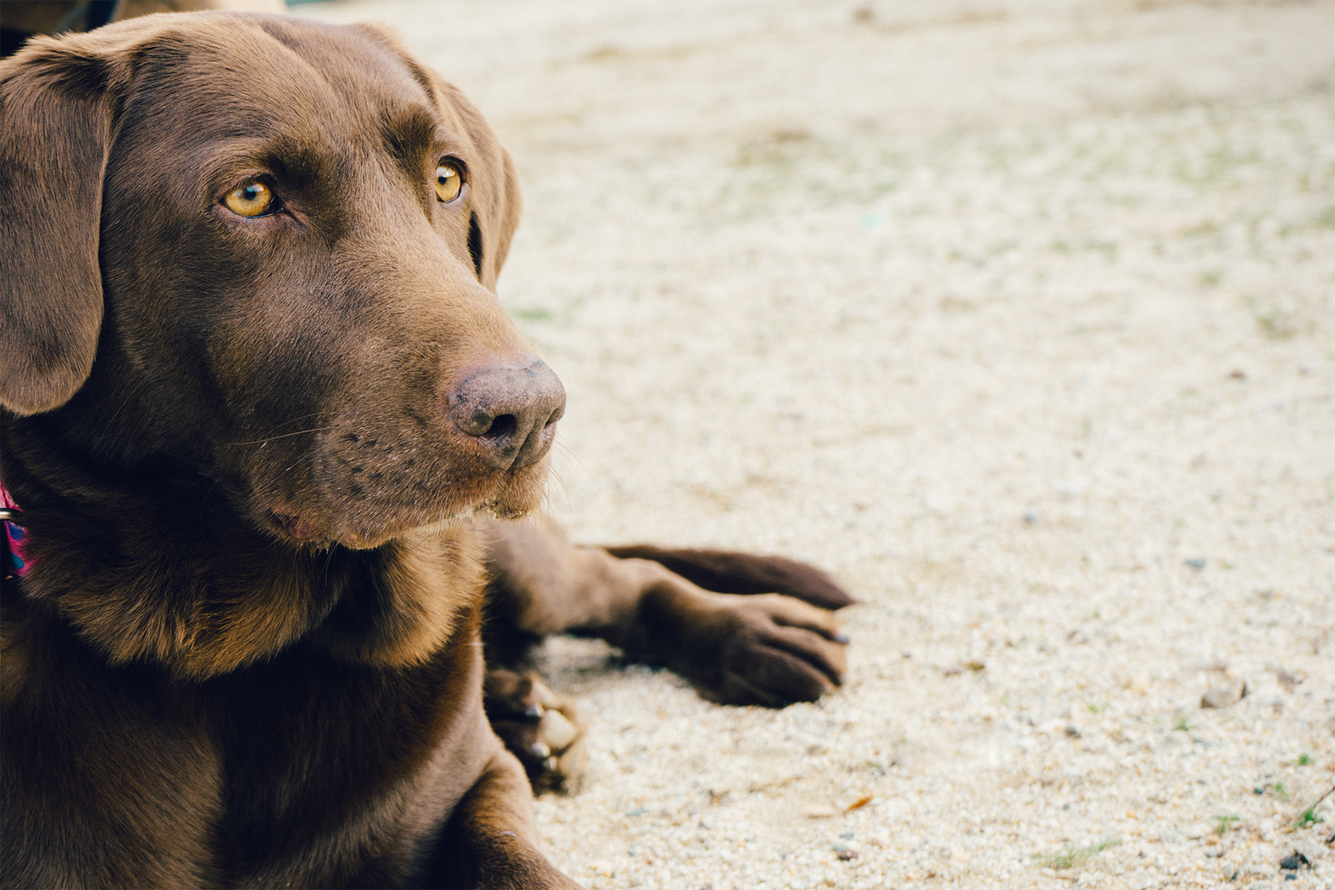
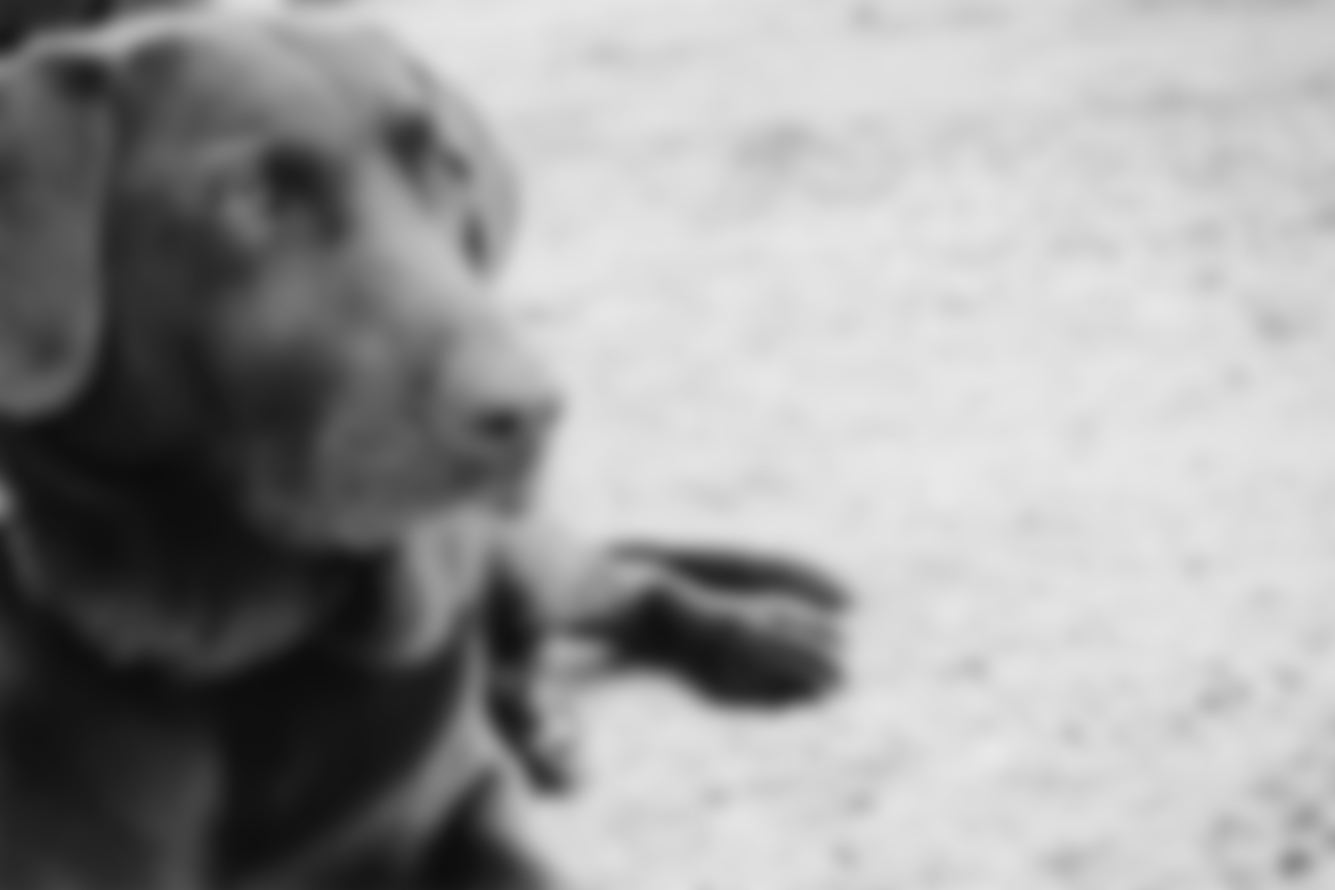
Refining the design more

diff --git a/styles.css b/styles.css
@@ -1,49 +1,4 @@
-
-
-
-/* Showcase */
-
-
-
-.showcase{
-  min-height: 200px;
-  background: url('img/showcase.jpg') no-repeat 0px -200px;
-  text-align: center;
-  filter: grayscale() opacity(0.5);
-}
-
-.showcase h1{
-  margin-top: 0px;
-  margin-bottom: 5px;
-  color: #ffffff;
-  border: 0;
-  font-size: 55px;
-
-}
-
-
-#howto{
-  min-height: 80px;
-  padding: 15px;
-  color: #ffffff;
-  background: #506077;
-}
-
-#howto h1{
-  float: left;
-}
-
-#howto form{
-  float: right;
-  padding-top: 20px;
-  height: 50px;
-}
-
-#howto input{
-  height: 38px;
-  border: 0;
-}
-
+/*Global*/
 body{
   font: 15px/1.5 Arial, Helvetica, sans-serif;
   padding: 0;
@@ -51,26 +6,18 @@ body{
   background-color:#f4f4f4
 }
 
-.Logo {
-    float: left;
-    margin: 10px;
+.container{
+  width: 80%;
+  margin: auto;
+  overflow: hidden;
 }
 
-.Logout {
-    float: right;
-    margin: 10px;
+ul{
+  margin: 0;
+  padding: 0;
 }
 
-.button1{
-  height: 38px;
-  background: #e8491d;
-  border:0;
-  padding-left:20;
-  padding-right:20;
-  color:#ffffff;
-
-}
-
+/*Header*/
 header {
     background-color:#506077;
     color:#ffffff;
@@ -80,6 +27,7 @@ header {
 }
 
 header a{
+  padding-bottom: 30px;
   color:#ffffff;
   text-decoration: none;
   text-transform: uppercase;
@@ -115,99 +63,87 @@ header a:hover{
   font-weight: bold;
 }
 
-
-
-.Header2 {
-    height: 60px;
-}
-.Whitespace {
-    width: 100%;
-    height: 5%;
-    background-color: gray;
+/* Showcase */
+#showcase{
+  min-height: 200px;
+  background: url('img/showcase.jpg') no-repeat 0px -200px;
+  text-align: center;
+  color: #ffffff;
 }
 
-
-ul{
-  margin: 0;
-  padding: 0;
+#showcase h1{
+  margin-top: 100px;
+  font-size: 55px;
+  margin-bottom: 10px;
+  color: #ffffff;
+  border: 0;
 }
 
-.center {
-    margin: auto;
-    width: 30%;
-    border: 3px solid #73AD21;
-    padding: 10px;
+#showcase p{
+  font-size: 20px;
 }
-.centertext {
-    text-align: center;
+
+#howto{
+  padding: 15px;
+  color: #ffffff;
+  background: #506077;
 }
-.centerlong {
-    margin: auto;
-    width: 60%;
-    border: 3px solid #73AD21;
-    padding: 10px;
+
+#howto h1{
+  float: left;
 }
-.left {
+
+#howto form{
+  float: right;
+  padding-top: 20px;
+  height: 50px;
+}
+
+#howto input[type="email"]{
+  height: 38px;
+  border: 0;
+  text-align: center;
+}
+
+.Logo {
     float: left;
-    width: 30%;
-    border: 3px solid #73AD21;
-    padding: 10px;
-}
-input[type=text], select {
-    width: 100%;
-    padding: 12px 20px;
-    margin: 8px 0;
-    display: inline-block;
-    border: 1px solid #ccc;
-    border-radius: 4px;
-    box-sizing: border-box;
-}
-input[type=password], select {
-     width: 100%;
-     padding: 12px 20px;
-     margin: 8px 0;
-     display: inline-block;
-     border: 1px solid #ccc;
-     border-radius: 4px;
-     box-sizing: border-box;
-}
-input[type=date], select {
-    width: 100%;
-    padding: 12px 20px;
-    margin: 8px 0;
-    display: inline-block;
-    border: 1px solid #ccc;
-    border-radius: 4px;
-    box-sizing: border-box;
+    margin: 20px;
 }
 
-input[type=submit] {
-    width: 100%;
-    background-color: #4CAF50;
-    color: white;
-    padding: 14px 20px;
-    margin: 8px 0;
-    border: none;
-    border-radius: 4px;
-    cursor: pointer;
+.Logout {
+    float: right;
+    margin: 10px;
 }
 
-input[type=submit]:hover {
-    background-color: #45a049;
-}
-table {
-    border-collapse: collapse;
-    width: 100%;
-}
+.button1{
+  height: 38px;
+  background: #e8491d;
+  border:0;
+  padding-left:20;
+  padding-right:20;
+  color:#ffffff;
 
-th, td {
-    text-align: left;
-    padding: 8px;
 }
 
-tr:nth-child(even){background-color: #f2f2f2}
+#boxes{
+  margin-top: 20px;
+}
 
-th {
-    background-color: #4CAF50;
-    color: white;
+#boxes .box{
+  float: left;
+  width: 30%;
+  padding: 10px;
+  text-align: center;
+}
+
+#boxes .box img{
+  width: 190px;
+}
+
+footer{
+  padding: 20px;
+  margin-top: 20px;
+  color: #ffffff;
+  background-color: #e8491d;
+  text-align: center;
 }

diff --git a/index.html b/index.html
@@ -24,20 +24,42 @@
         </ul>
       </nav>
     </header>
-<section class="showcase">
+<section id="showcase">
+  <div class="container">
   <h1>Lovely Pets Information System</h1>
+    <p>To begin, select from favourites below, or select from the drop down listings at the top of the page</p>
+  </div>
   </section>
     <section id="howto">
       <div class ="container">
-        <h1>Request a Login</h1>
+        <h1>Request a Password Reset</h1>
         <form>
-          <input type="email" placeholder="Enter Email">
-          <button type="submit" class="button1">Request Login</button>
+          <input type="email" placeholder="Enter Users Email">
+          <button type="submit" class="button1">Request a User Password Reset</button>
         </form>
     </section>
-        <footer>
-          <p>Lovely Pets, Copyright &copy; 2017</p>
-        </footer>
+    <section id="boxes">
+      <div class="container">
+        <div class="box">
+          <img src="img/dogcat.png">
+          <h3>Make a Customer Booking<h3>
+            <p>Click here to make a customer booking<p>
+        </div>
+        <div class="box">
+          <img src="img/Screen.png">
+          <h3>Launch Custom Reports<h3>
+            <p>Click here to launch the custom reports module<p>
+        </div>
+        <div class="box">
+          <img src="img/syringe.png">
+          <h3>Launch Inventory Manager<h3>
+            <p>Click here to launch the inventory manager<p>
+        </div>
+      </div>
+    </section>
 
+  <footer>
+  <p>Lovely Pets, Copyright &copy; 2017</p>
+  </footer>
   </body>
 </html>

diff --git a/index.php b/index.php
@@ -16,28 +16,50 @@
       </div>
       <nav>
         <ul>
-          <li class="current"><a href="index.html">Home</a></li>
-          <li><a href="report.php">Reporting</a></li>
-          <li><a href="booking.php">Bookings</a></li>
-          <li><a href="walkin.php">Walk-Ins</a></li>
-          <li><a href="reception.html">Inventory</a></li>
+            <li class="current"><a href="index.html">Home</a></li>
+            <li><a href="report.php">Reporting</a></li>
+            <li><a href="booking.php">Bookings</a></li>
+            <li><a href="walkin.php">Walk-Ins</a></li>
+            <li><a href="reception.html">Inventory</a></li>
         </ul>
       </nav>
     </header>
-<section class="showcase">
+<section id="showcase">
+  <div class="container">
   <h1>Lovely Pets Information System</h1>
+    <p>To begin, select from favourites below, or select from the drop down listings at the top of the page</p>
+  </div>
   </section>
     <section id="howto">
       <div class ="container">
-        <h1>Request a Login</h1>
+        <h1>Request a Password Reset</h1>
         <form>
-          <input type="email" placeholder="Enter Email">
-          <button type="submit" class="button1">Request Login</button>
+          <input type="email" placeholder="Enter Users Email">
+          <button type="submit" class="button1">Request a User Password Reset</button>
         </form>
     </section>
-        <footer>
-          <p>Lovely Pets, Copyright &copy; 2017</p>
-        </footer>
+    <section id="boxes">
+      <div class="container">
+        <div class="box">
+          <img src="img/dogcat.png">
+          <h3>Make a Customer Booking<h3>
+            <p>Click here to make a customer booking<p>
+        </div>
+        <div class="box">
+          <img src="img/Screen.png">
+          <h3>Launch Custom Reports<h3>
+            <p>Click here to launch the custom reports module<p>
+        </div>
+        <div class="box">
+          <img src="img/syringe.png">
+          <h3>Launch Inventory Manager<h3>
+            <p>Click here to launch the inventory manager<p>
+        </div>
+      </div>
+    </section>
 
+  <footer>
+  <p>Lovely Pets, Copyright &copy; 2017</p>
+  </footer>
   </body>
 </html>
